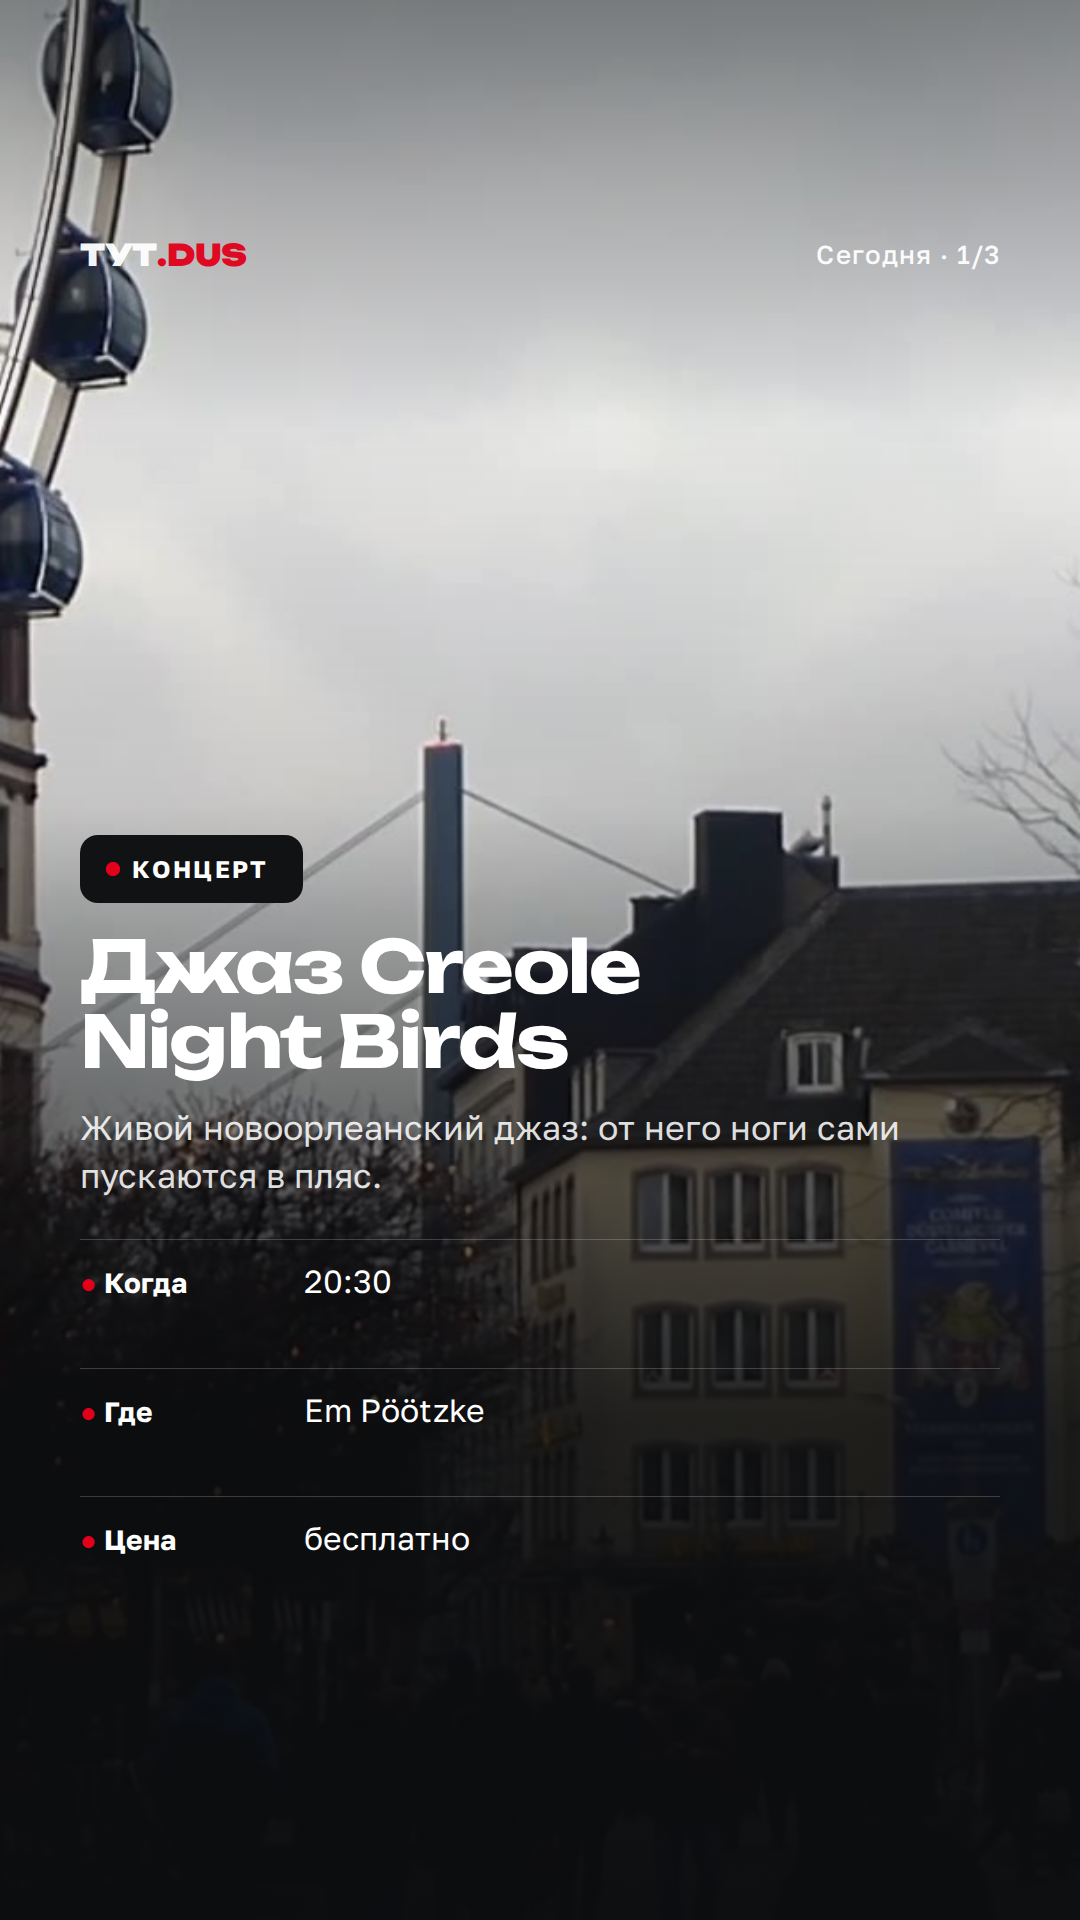
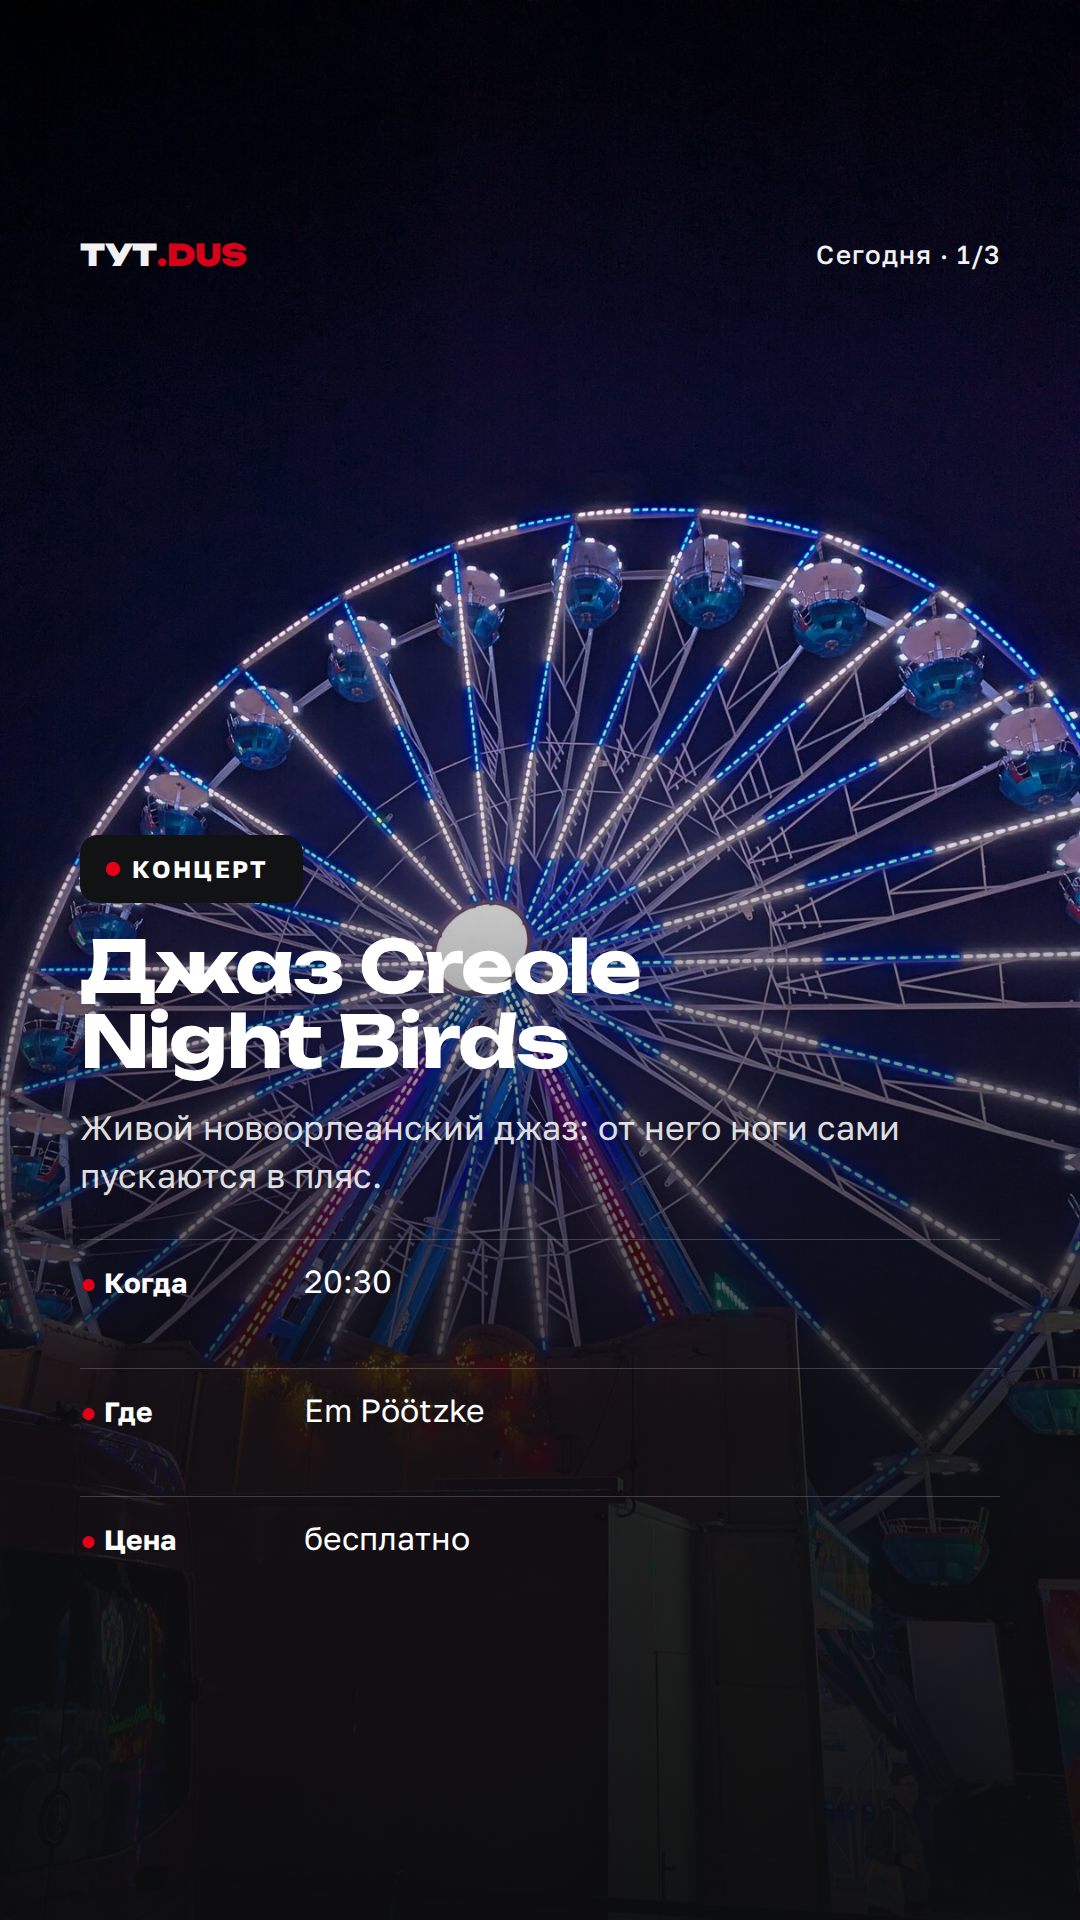
Own photos as story backgrounds (curated list); auto-process files uploaded straight into photos/footage
Claude-Session: https://claude.ai/code/session_01UxqiuRyKATWs1Brw29vXzP

diff --git a/tools/stories/daily.py b/tools/stories/daily.py
@@ -105,6 +105,11 @@ def fit(s, base, long_at, small):
 def photos():
     """Фоны: ваши фото из library/photos (и кадры с Commons, пока своих мало)."""
     d = ROOT / "library" / "photos"
+    listed = d / "backgrounds.txt"
+    if listed.exists():
+        names = [l.strip() for l in listed.read_text().splitlines() if l.strip() and not l.startswith("#") and (d / l.strip()).exists()]
+        if names:
+            return names
     own = sorted(p.name for p in d.glob("*") if p.suffix.lower() in (".jpg", ".jpeg", ".png") and not p.name.startswith("commons-"))
     return own or sorted(p.name for p in d.glob("commons-*.jpg"))
 
